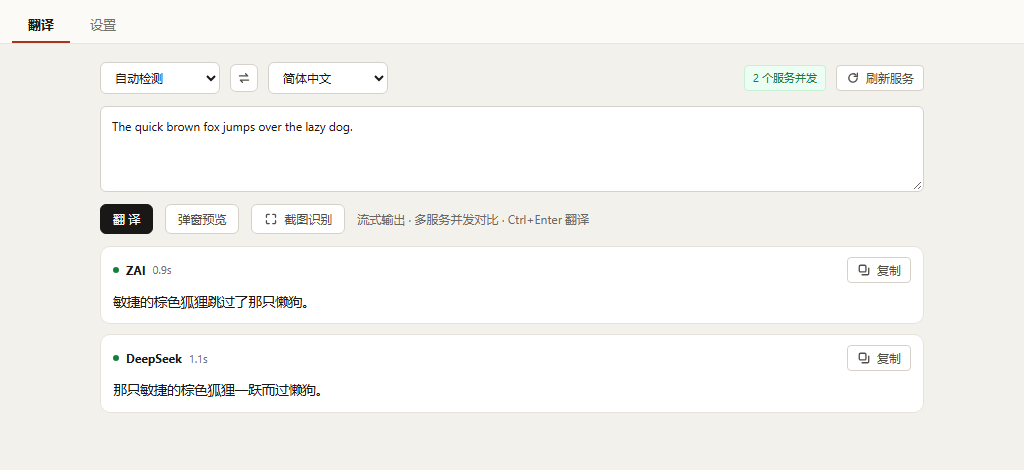
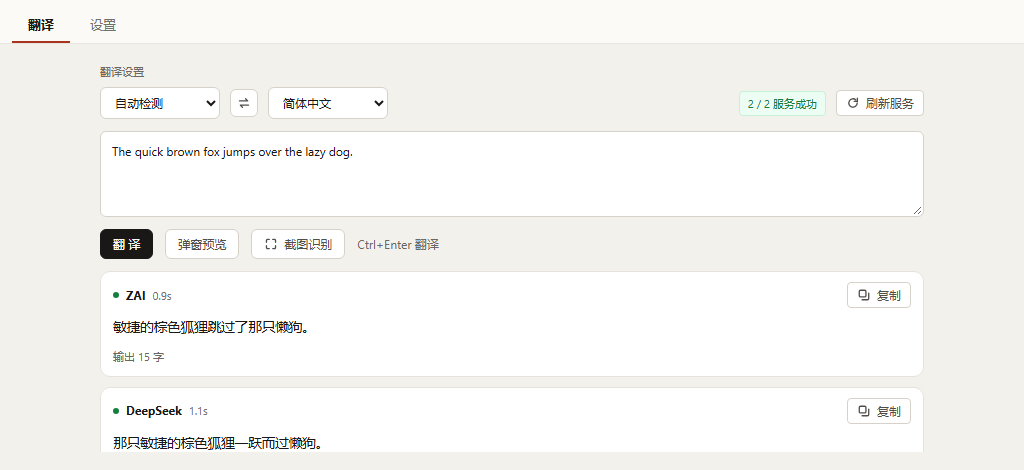
feat(ui): 翻译页补齐设计稿的状态与兜底，清掉文案里的中点串
翻译页：语言方向上方补「翻译设置」分组标题；右上角状态改成设计稿
的语义，出结果后显示「N / M 服务成功」，全部成功用绿色、有失败转
琥珀色，未开始时显示「N 个服务待命」；结果卡补第二信息行（输出字数，
真实可算）；失败卡补「重试」按钮与限流排查提示，失败原因不再带
invoke 抛出的 Error: 前缀。

文案：全项目 12 处中点串清零。历史详情改成「译文（ZAI）」加分隔的
时间与耗时；插件行去掉低价值的版本号，改成逗号；侧边栏底部的
「Tauri 2 · Rust + WebView」换成对用户有意义的说明；服务列表行不再
重复默认协议，非默认协议用全角冒号。

下载页的两张截图同步更新。

diff --git a/src/pages/Translate.tsx b/src/pages/Translate.tsx
@@ -1,5 +1,5 @@
 // S0.8 最小翻译界面：输入 → 各启用服务并发流式出稿（对应设计稿①的卡片形态）
-import { useEffect, useState } from "react";
+import { useCallback, useEffect, useState } from "react";
 import { emit, listen } from "@tauri-apps/api/event";
 import { invoke } from "@tauri-apps/api/core";
 import { WebviewWindow } from "@tauri-apps/api/webviewWindow";
@@ -22,7 +22,7 @@ export async function openTranslatePopup(sample: string) {
   if (!win) {
     win = new WebviewWindow("popup", {
       url: "popup.html",
-      title: "随译 · 划词翻译",
+    title: "划词翻译",
       width: 430,
       height: 540,
       minWidth: 360,
@@ -50,6 +50,11 @@ interface CardState {
   elapsedMs?: number;
   error?: string;
   dictionary?: DictionaryResult;
+}
+
+/** invoke 失败时可能抛字符串也可能抛 Error，统一成一句能给用户看的话 */
+function errText(e: unknown): string {
+  return e instanceof Error ? e.message : String(e);
 }
 
 export default function TranslatePage() {
@@ -125,7 +130,7 @@ export default function TranslatePage() {
           );
         } catch (e) {
           setCards((cs) =>
-            cs.map((c) => (c.id === s.id ? { ...c, status: "error", error: String(e) } : c)),
+            cs.map((c) => (c.id === s.id ? { ...c, status: "error", error: errText(e) } : c)),
           );
         }
       }),
@@ -133,9 +138,51 @@ export default function TranslatePage() {
     setBusy(false);
   }
 
+  /** 单独重跑一路服务：失败卡片上的「重试」 */
+  const retryOne = useCallback(
+    async (serviceId: string) => {
+      const s = services.find((x) => x.id === serviceId);
+      if (!s || !text.trim()) return;
+      setCards((cs) =>
+        cs.map((c) =>
+          c.id === serviceId ? { ...c, status: "streaming" as const, text: "", error: undefined } : c,
+        ),
+      );
+      try {
+        const r = await invoke<TranslateResult>("translate_text", {
+          serviceId: s.id,
+          text,
+          from,
+          to,
+          kind: "manual",
+        });
+        setCards((cs) =>
+          cs.map((c) =>
+            c.id === serviceId
+              ? { ...c, status: "done" as const, text: r.text, elapsedMs: r.elapsedMs, dictionary: r.dictionary }
+              : c,
+          ),
+        );
+      } catch (e) {
+        setCards((cs) =>
+          cs.map((c) =>
+            c.id === serviceId ? { ...c, status: "error" as const, error: errText(e) } : c,
+          ),
+        );
+      }
+    },
+    [services, text, from, to],
+  );
+
+  const doneCount = cards.filter((c) => c.status === "done").length;
+  const failedCount = cards.filter((c) => c.status === "error").length;
+  const settledCount = doneCount + failedCount;
+
   return (
     <div className="translate-page">
-      <div className="lang-row">
+      <div className="lang-group">
+        <div className="row-label">翻译设置</div>
+        <div className="lang-row">
         <select className="inp" value={from} onChange={(e) => setFrom(e.target.value)}>
           {SOURCE_LANGS.map((l) => (
             <option key={l} value={l}>{l}</option>
@@ -159,10 +206,19 @@ export default function TranslatePage() {
           ))}
         </select>
         <span style={{ flex: 1 }} />
-        {services.length > 0 && <span className="chip ok">{services.length} 个服务并发</span>}
+        {services.length > 0 && (
+          settledCount > 0 ? (
+            <span className={`chip ${failedCount > 0 ? "warn" : "ok"}`}>
+              {doneCount} / {services.length} 服务成功
+            </span>
+          ) : (
+            <span className="chip">{services.length} 个服务待命</span>
+          )
+        )}
         <button className="btn mini" onClick={() => void listServices().then((f) =>
           setServices(f.services.filter((s) => s.enabled && s.kind === "translation").sort((a, b) => a.order - b.order)),
-        )}><Icon name="refresh" size="sm" />刷新服务</button>
+          )}><Icon name="refresh" size="sm" />刷新服务</button>
+        </div>
       </div>
 
       <textarea
@@ -172,7 +228,7 @@ export default function TranslatePage() {
         onKeyDown={(e) => {
           if (e.key === "Enter" && e.ctrlKey) void doTranslate();
         }}
-        placeholder="输入要翻译的文本…（Ctrl+Enter 翻译）"
+        placeholder="输入要翻译的文本…"
       />
 
       <div className="actions">
@@ -188,7 +244,7 @@ export default function TranslatePage() {
         <button className="btn" onClick={() => void invoke("start_screenshot").catch(console.error)}>
           <Icon name="frame" size="sm" />截图识别
         </button>
-        <span className="muted">流式输出 · 多服务并发对比 · Ctrl+Enter 翻译</span>
+        <span className="muted">Ctrl+Enter 翻译</span>
       </div>
 
       <div className="cards">
@@ -207,7 +263,15 @@ export default function TranslatePage() {
               )}
             </div>
             {c.error ? (
-              <div className="rt rc-err">{c.error}</div>
+              <>
+                <div className="rt rc-err">{c.error}</div>
+                <div className="rc-foot">
+                  <span className="muted">配额限流可在「设置 → 服务配置」用测试连接排查</span>
+                  <button className="btn mini" onClick={() => void retryOne(c.id)}>
+                    <Icon name="refresh" size="sm" />重试
+                  </button>
+                </div>
+              </>
             ) : c.dictionary ? (
               <DictionaryCard dict={c.dictionary} />
             ) : (
@@ -215,6 +279,9 @@ export default function TranslatePage() {
                 {c.text}
                 {c.status === "streaming" && <span className="caret" />}
               </div>
+            )}
+            {c.status === "done" && c.text && !c.dictionary && (
+              <div className="rc-meta">输出 {c.text.length} 字</div>
             )}
           </div>
         ))}

diff --git a/src/pages/Settings.tsx b/src/pages/Settings.tsx
@@ -393,9 +393,9 @@ export default function SettingsPage() {
           <div key={item} className="side-item">{item}</div>
         ))}
         <div className="side-foot">
-          随译 v0.1.0 (dev)
+          随译 v0.1.0
           <br />
-          Tauri 2 · Rust + WebView
+          译文由你配置的服务提供
         </div>
       </aside>
 
@@ -431,7 +431,7 @@ export default function SettingsPage() {
 
             <div className="card">
               <div className="card-head">
-                <span className="hname">生词本 · Anki</span>
+                <span className="hname">Anki 生词本</span>
                 <span className="m">需要安装并启动 AnkiConnect 插件</span>
               </div>
               <div className="row2">
@@ -612,7 +612,7 @@ export default function SettingsPage() {
                       <div className="t-body">{selectedEntry.source}</div>
                     </div>
                     <div className="lab">
-                      译文{selectedEntry.serviceName ? ` · ${selectedEntry.serviceName}` : ""}
+                      译文{selectedEntry.serviceName ? `（${selectedEntry.serviceName}）` : ""}
                     </div>
                     <div className="card" style={{ padding: "10px 12px" }}>
                       <div className={selectedEntry.ok ? "t-body" : "t-body terr"}>
@@ -620,8 +620,8 @@ export default function SettingsPage() {
                       </div>
                     </div>
                     <div className="hmeta">
-                      {formatTime(selectedEntry.createdAt)}
-                      {selectedEntry.ok && ` · ${(selectedEntry.elapsedMs / 1000).toFixed(1)}s`}
+                      <span>{formatTime(selectedEntry.createdAt)}</span>
+                      {selectedEntry.ok && <span>{(selectedEntry.elapsedMs / 1000).toFixed(1)}s</span>}
                     </div>
                     <div className="hact">
                       <button
@@ -682,12 +682,11 @@ export default function SettingsPage() {
                   <span>
                     {p.ok
                       ? [
-                          p.version || "未标版本",
                           p.kind ? PLUGIN_KIND_LABELS[p.kind] : "",
                           p.permissions.length ? `权限：${p.permissions.join(" / ")}` : "无特殊权限",
                         ]
                           .filter(Boolean)
-                          .join(" · ")
+                          .join("，")
                       : p.error}
                   </span>
                 </span>
@@ -798,7 +797,7 @@ export default function SettingsPage() {
           ) : (
             <>
               <div className="card-head">
-                <b>{draft.id ? `编辑服务 · ${draft.name}` : "添加服务"}</b>
+                <b>{draft.id ? `编辑服务：${draft.name}` : "添加服务"}</b>
                 <span className="chip acc">{PROTOCOL_LABELS[draft.protocol]}</span>
                 <span style={{ flex: 1 }} />
                 {draft.id && (
@@ -903,7 +902,7 @@ export default function SettingsPage() {
               </div>
 
               <div className="f">
-                <label>Prompt 模板 · 变量 {"{{from}} {{to}} {{text}}"} 自动注入</label>
+                <label>Prompt 模板（{"{{from}} {{to}} {{text}}"} 自动注入）</label>
                 <textarea className="inp mono" rows={3} value={draft.promptTemplate ?? ""}
                   onChange={(e) => setDraft({ ...draft, promptTemplate: e.target.value })}
                   placeholder={DEFAULT_PROMPT} />

diff --git a/design/devharness/app.html b/design/devharness/app.html
@@ -21,6 +21,7 @@
         var q = new URLSearchParams(location.search);
         var isPopup = q.get("win") === "popup";
         var conflict = q.get("conflict") === "1";
+        var failOne = q.get("fail") === "1";
 
         var SERVICES = {
           version: 1, concurrency: 2, timeoutSecs: 15, inputTargetLang: "中文",
@@ -70,6 +71,9 @@
           retry_hotkeys: function () { return HOTKEYS; },
           test_connection: function () { return { ok: true, elapsedMs: 412, models: ["glm-5.3-flash"], error: null }; },
           translate_text: function (args) {
+            if (failOne && args.serviceId === "deepseek") {
+              throw new Error("服务返回 429：当前分组上游负载已饱和，请稍后再试");
+            }
             var o = TRANSLATED[args.serviceId] || { text: "（无模拟结果）", elapsedMs: 500 };
             return { serviceId: args.serviceId, text: o.text, elapsedMs: o.elapsedMs };
           },

diff --git a/src/pages/Translate.css b/src/pages/Translate.css
@@ -11,6 +11,10 @@
   box-sizing: border-box;
 }
 
+/* 分组标题与它自己的那一行贴在一起，不跟着整页的 12px 间距走 */
+.lang-group { display: flex; flex-direction: column; gap: 6px; }
+.row-label { font-size: var(--fs-cap); color: var(--c-caption); }
+
 .lang-row { display: flex; align-items: center; gap: 10px; }
 .lang-row select.inp { width: auto; min-width: 120px; }
 .lang-row .arrow { color: var(--c-icon); }
@@ -66,6 +70,18 @@
   color: var(--c-text);
 }
 .rc-err { color: var(--c-danger); font-size: var(--fs-sec); }
+
+/* 失败卡片底部的排查提示与重试 */
+.rc-foot { display: flex; align-items: center; gap: 10px; margin-top: 8px; }
+.rc-foot .muted { flex: 1; min-width: 0; }
+
+/* 成功卡片的第二信息行 */
+.rc-meta {
+  margin-top: 8px;
+  font-size: var(--fs-cap);
+  color: var(--c-caption);
+  font-variant-numeric: tabular-nums;
+}
 
 .caret {
   display: inline-block;

diff --git a/src/pages/Popup.tsx b/src/pages/Popup.tsx
@@ -286,7 +286,7 @@ export default function PopupPage() {
         {/* 头部：只剩拖拽把手与窗口按钮，语言选择移到下一行避免与拖动冲突 */}
         <div className="pop-head" data-tauri-drag-region>
           <span className="grip"><Icon name="grip" size="sm" /></span>
-          <span className="pop-title">随译 · 划词翻译</span>
+          <span className="pop-title">划词翻译</span>
           <span style={{ flex: 1 }} />
           <button
             className={`pop-icon${pinned ? " pin-on" : ""}`}
@@ -461,7 +461,7 @@ export default function PopupPage() {
         )}
         <div className="pop-status">
           <span className="dot" />
-          {busy ? "流式输出中" : "就绪"} · Esc 关闭 · 拖动标题栏移动
+          {busy ? "流式输出中" : "就绪"}，Esc 关闭，拖动标题栏移动
         </div>
       </div>
     </div>

diff --git a/src/types.ts b/src/types.ts
@@ -130,10 +130,11 @@ export const PROTOCOL_LABELS: Record<Protocol, string> = {
  * 所以只有非默认协议才带前缀。完整信息仍在右侧表单里。
  */
 export function serviceMeta(s: ServiceConfig): string {
-  if (s.pluginId) return `插件 · ${s.model || "本地脚本"}`;
+  // 插件服务在列表行里已经有「插件」标签，这里只报模型
+  if (s.pluginId) return s.model || "本地脚本";
   const proto = PROTOCOL_LABELS[s.protocol];
   if (s.protocol === "open_ai_compatible") return s.model || proto;
-  return s.model ? `${proto} · ${s.model}` : proto;
+  return s.model ? `${proto}：${s.model}` : proto;
 }
 
 export type PluginKind = "translation" | "ocr" | "speech" | "action";

diff --git a/src/pages/Settings.css b/src/pages/Settings.css
@@ -314,7 +314,13 @@ select.inp { appearance: auto; }
 .hist-detail .lab { font-size: var(--fs-sec); color: var(--c-caption); }
 .hist-detail .t-body { white-space: pre-wrap; }
 .hist-detail .terr { color: var(--c-danger); }
-.hmeta { font-size: var(--fs-cap); color: var(--c-caption); font-family: var(--font-mono); }
+.hmeta {
+  display: flex;
+  gap: 8px;
+  font-size: var(--fs-cap);
+  color: var(--c-caption);
+  font-variant-numeric: tabular-nums;
+}
 .hact { display: flex; gap: 6px; flex-wrap: wrap; margin-top: auto; }
 
 /* ---------- 插件页 ---------- */

diff --git a/src/pages/Overlay.tsx b/src/pages/Overlay.tsx
@@ -105,7 +105,7 @@ export default function OverlayPage() {
           {Math.round(rect.w)} × {Math.round(rect.h)}
         </span>
       )}
-      <div className="ov-hint">拖动框选要识别的区域 · 松开自动识别并翻译 · Esc 取消</div>
+        <div className="ov-hint">拖动框选区域，松开后自动识别并翻译（Esc 取消）</div>
     </div>
   );
 }
